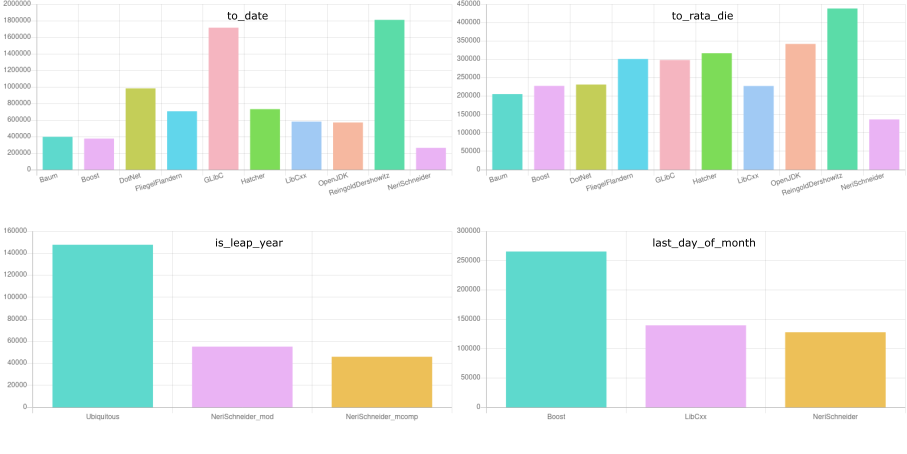
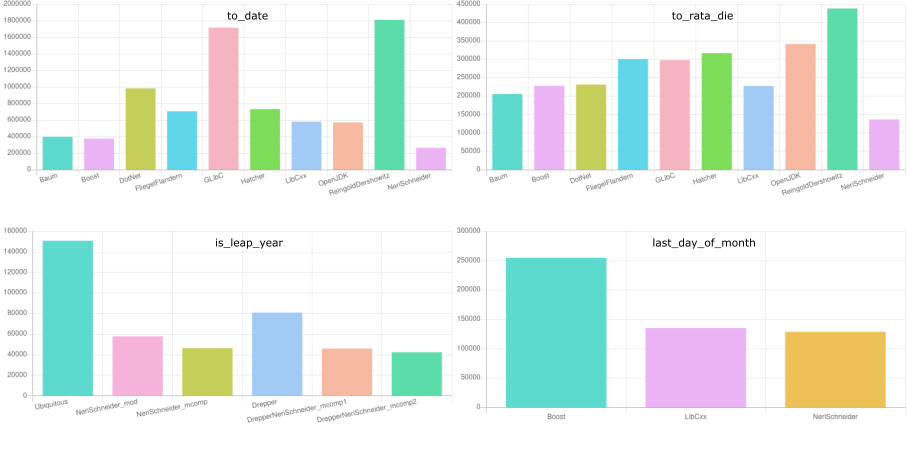
Updated is_leap_year (1) and last_day_of_month (2).
After ideas given by:

  (1) Ulrich Drepper.
  (2) Dr. Matthias Kretz.

diff --git a/benchmarks/is_leap_year.cpp b/benchmarks/is_leap_year.cpp
@@ -21,19 +21,11 @@
 #include <cstdint>
 #include <random>
 
-using year_t = int16_t;
-
-namespace neri_schneider::mod {
-
 // https://github.com/cassioneri/calendar/blob/master/calendar.hpp
 
-bool is_leap_year(year_t year) {
-  return year % 100 != 0 ? year % 4 == 0 : year % 400 == 0;
-}
-}
+using year_t = int16_t;
 
-namespace neri_schneider::mcomp {
-
+// https://accu.org/journals/overload/28/155/overload155.pdf#page=16
 bool is_multiple_of_100(int32_t n) {
   uint32_t constexpr multiplier   = 42949673;
   uint32_t constexpr bound        = 42949669;
@@ -42,13 +34,49 @@ bool is_multiple_of_100(int32_t n) {
   return multiplier * (n + offset) < bound;
 }
 
+namespace neri_schneider::mod {
 bool is_leap_year(year_t year) {
-  return (!is_multiple_of_100(year) || year % 16 == 0) && (year % 4 == 0);
+  // The ternary expression used here is equivalent to:
+  //   year % 100 == 0 ? year % 16 == 0 : year % 4 == 0;
+  // Surprinsingly, GCC generates worse code for it.
+  return year % 100 == 0 ? year % 400 == 0 : year % 4 == 0;
+}
+}
+
+namespace neri_schneider::mcomp {
+bool is_leap_year(year_t year) {
+  return is_multiple_of_100(year) ? year % 16 == 0 : year % 4 == 0;
+}
+}
+
+// Ulrich Drepper.
+namespace drepper {
+bool is_leap_year(year_t year) {
+  return (year & (year % 100 == 0 ? 15 : 3)) == 0;
+}
+}
+
+namespace drepper_neri_schneider::mcomp1 {
+bool is_leap_year(year_t year) {
+  return (year & (is_multiple_of_100(year) ? 15 : 3)) == 0;
+}
+}
+
+namespace drepper_neri_schneider::mcomp2 {
+bool is_leap_year(year_t year) {
+  // https://accu.org/journals/overload/28/155/overload155.pdf#page=16
+  uint32_t constexpr multiplier         = 42949673;
+  uint32_t constexpr bound              = 42949669;
+  uint32_t constexpr max_dividend       = 1073741799;
+  uint32_t constexpr offset             = max_dividend / 2 / 100 * 100;
+  uint32_t const     sum                = year + offset;
+  bool     const     is_multiple_of_100 = multiplier * sum < bound;
+  // offset & 15 == 0 and hence, year & 15 == sum & 15.
+  return (sum & (is_multiple_of_100 ? 15 : 3)) == 0;
 }
 }
 
 namespace ubiquitous {
-
 bool is_leap_year(year_t y) {
   return y % 4 == 0 && (y % 100 != 0 || y % 400 == 0);
 }
@@ -88,3 +116,6 @@ auto const years = [](){
 DO_BENCHMARK(Ubiquitous, ubiquitous);
 DO_BENCHMARK(NeriSchneider_mod , neri_schneider::mod);
 DO_BENCHMARK(NeriSchneider_mcomp, neri_schneider::mcomp);
+DO_BENCHMARK(Drepper, drepper);
+DO_BENCHMARK(DrepperNeriSchneider_mcomp1, drepper_neri_schneider::mcomp1);
+DO_BENCHMARK(DrepperNeriSchneider_mcomp2, drepper_neri_schneider::mcomp2);

diff --git a/calendar.hpp b/calendar.hpp
@@ -167,7 +167,7 @@ is_multiple_of_100(std::int32_t n) noexcept {
 }
 
 /**
- * @brief   Checks if a given number is multiple of 100 or not uisng built-in operator %.
+ * @brief   Checks if a given number is multiple of 100 or not using built-in operator %.
  *
  * @tparam  T         The type of the given number.
  * @param   n         The given number.
@@ -189,8 +189,10 @@ is_multiple_of_100(T n) noexcept {
 template <typename T>
 bool constexpr
 is_leap_year(T y) noexcept {
-  // http://stackoverflow.com/a/60646967/1137388
-  return (!is_multiple_of_100(y) || y % 16 == 0) && (y % 4 == 0);
+  // Originally, the ternary expression was similar to
+  //   is_multiple_of_100(y) ? y % 16 == 0 : y % 4 == 0;
+  // and Ulrich Drepper suggested the following twist.
+  return (y & (is_multiple_of_100(y) ? 15 : 3)) == 0;
 }
 
 /**
@@ -203,6 +205,9 @@ is_leap_year(T y) noexcept {
 template <typename Y>
 month_t constexpr
 last_day_of_month(Y y, month_t m) noexcept {
+  // Originally the 2nd operand of the 1st ternary operator was
+  //   (month ^ (month >> 3)) & 1 | 30
+  // and Dr. Matthias Kretz realised '& 1' was unnecessary.
   return m != 2 ? ((m ^ (m >> 3))) | 30 : is_leap_year(y) ? 29 : 28;
 }
 

diff --git a/benchmarks/last_day_of_month.cpp b/benchmarks/last_day_of_month.cpp
@@ -25,10 +25,9 @@ using year_t  = int16_t;
 using month_t = uint8_t;
 using day_t   = uint8_t;
 
-namespace neri_schneider {
-
 // https://github.com/cassioneri/calendar/blob/master/calendar.hpp
 
+// https://accu.org/journals/overload/28/155/overload155.pdf#page=16
 bool is_multiple_of_100(int32_t n) {
   uint32_t constexpr multiplier   = 42949673;
   uint32_t constexpr bound        = 42949669;
@@ -38,10 +37,14 @@ bool is_multiple_of_100(int32_t n) {
 }
 
 bool is_leap_year(year_t year) {
-  return (!is_multiple_of_100(year) || year % 16 == 0) && (year % 4 == 0);
+  return (year & (is_multiple_of_100(year) ? 15 : 3)) == 0;
 }
 
+namespace neri_schneider {
 day_t last_day_of_month(year_t year, month_t month) {
+  // Originally the 2nd operand of the 1st ternary operator was
+  //   (month ^ (month >> 3)) & 1 | 30
+  // and Dr. Matthias Kretz realised '& 1' was unnecessary.
   return month != 2 ? (month ^ (month >> 3)) | 30 :
     is_leap_year(year) ? 29 : 28;
 }

diff --git a/README.md b/README.md
@@ -15,8 +15,10 @@ including the following C++20's functions:
 Our implementations are benchmarked against counterparts, including some of the most widely used
 C (glibc and Linux Kernel), C++ (boost and libc++), C# (.NET) and Java (OpenJDK and Android)
 libraries; and our own implementations of algorithms found in academic literature. Charts below
-suggest that our algorithms perform considerably faster than others. (Our algorithms were
-implemented in libstdc++ and should be part of gcc 11.0.)
+suggest that our algorithms perform considerably faster than others.
+
+#### Notes:
+  April 2021 - Our algorithms were implemented in libstdc++ released with gcc 11.0.
 
 ![Benchmarks](https://github.com/cassioneri/calendar/blob/master/benchmarks/benchmarks.png)
 
@@ -42,13 +44,16 @@ implemented in libstdc++ and should be part of gcc 11.0.)
 2.5x faster than OpenJDK and
 3.2x faster than ReingoldDershowitz.
 
-[is_leap_year](https://quick-bench.com/q/eW97LXeb5oUQWaTmQvaYPkZ7TPA): Ubiquitous (the
+[is_leap_year](https://quick-bench.com/q/gK6a9RUDJYFnbgBX-h_xECTxF9E): Ubiquitous (the
 implementation used virtually everywhere) is
-2.7x slower than NeriSchneider_mod and
-3.3x slower than NeriSchneider_mcomp.
+2.6x slower than NeriSchneider_mod,
+3.3x slower than NeriSchneider_mcomp,
+1.9x slower than Drepper,
+3.3x slower than DrepperNeriSchneider_mcomp1 and
+3.6x slower than DrepperNeriSchneider_mcomp2.
 
-[last_day_of_month](https://quick-bench.com/q/bf6NKrwWTgkqsz5fRGorD7nJIbo): NeriSchneider is
-2.1x faster than Boost and
+[last_day_of_month](https://quick-bench.com/q/jpbILbbUq5AeGKds3etV5gwMCyk): NeriSchneider is
+2.0x faster than Boost and
 1.1x faster than libc++.
 
 **Disclaimer**: Benchmarks above show a single run and YMMV (especially when changing compiler since
